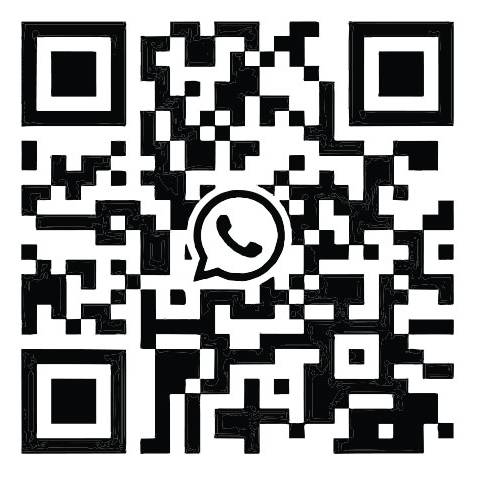
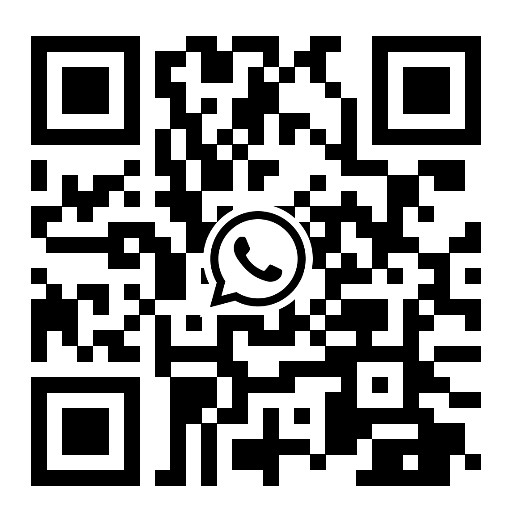
change whatsapp phone

diff --git a/src/pages/Product/Product.tsx b/src/pages/Product/Product.tsx
@@ -32,7 +32,7 @@ const Product:React.FC=()=> {
           <p>
             {t("product.contact.desc")} <br/>
             {t("product.contact.email")}<span className='highlighter'>sales@maxhub.com </span> <br/>
-            {t("product.contact.phone")} <span className='highlighter'>+8562098898818</span> 
+            {t("product.contact.phone")} <span className='highlighter'>+8562097771567</span> 
           </p>
           <Link to ='/company/contact'>{t("product.contact.link")}</Link>
         </div>

diff --git a/src/pages/Contact/Contact.tsx b/src/pages/Contact/Contact.tsx
@@ -93,7 +93,7 @@ const Contact: React.FC=()=> {
                             <br />
                             <strong>1 : &nbsp; </strong>+856 20 9777 1567
                             <br/>
-                            <strong>2: &nbsp; </strong>+856 20 9889 8818
+                            <strong>2: &nbsp; </strong>+856 20 9155 5123
                             <br/>
                             <strong>3: &nbsp; </strong>+856 20 2829 5659
                         </p>

diff --git a/src/pages/Product/Product.css b/src/pages/Product/Product.css
@@ -120,3 +120,8 @@
         border-radius: 20px;
     }
 }
+@media (min-width:2000px) {
+    .product-contact p{
+        line-height: 50px;
+    }
+}

diff --git a/src/components/Navigation/Nav/Nav.css b/src/components/Navigation/Nav/Nav.css
@@ -142,4 +142,7 @@
     .lang-selector li{
         padding: 20px;
     }
+    .nav-menu{
+        margin-left: 80px;
+    }
 }
